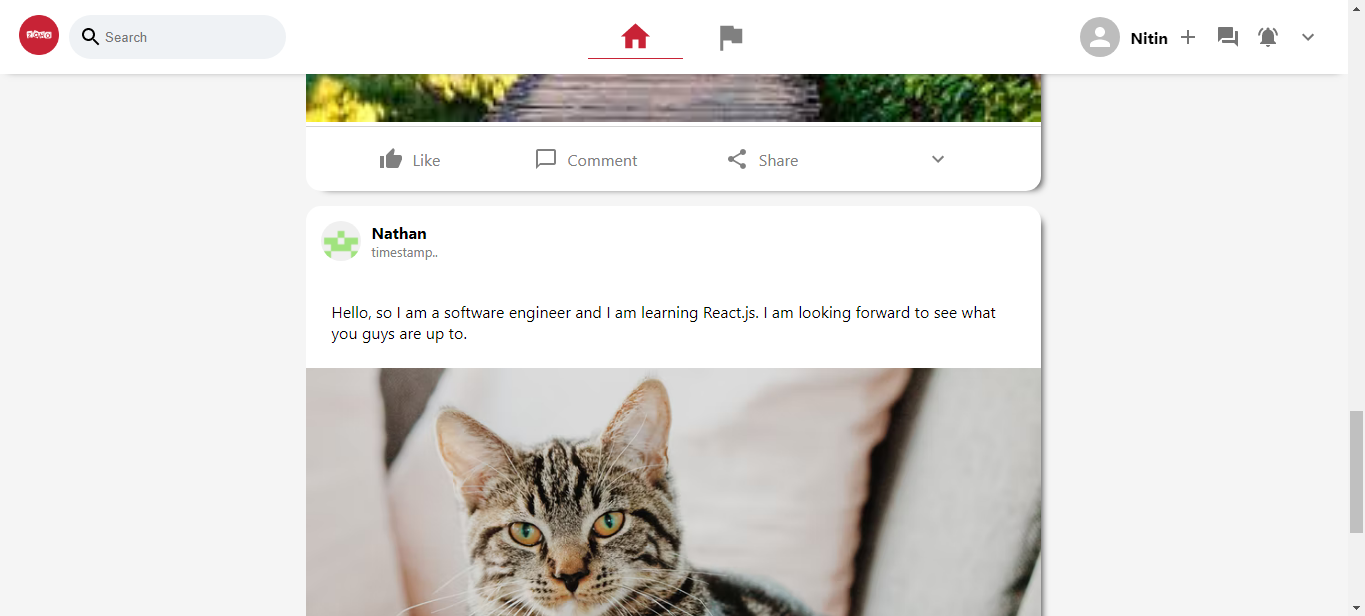
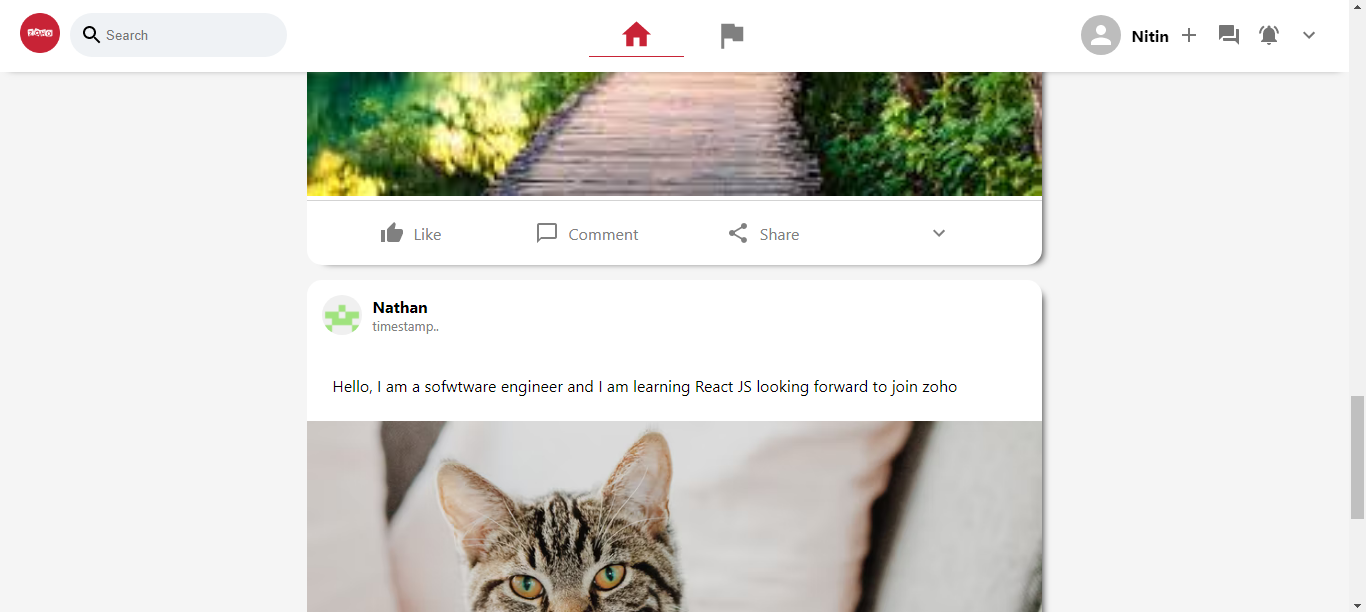
Added files

diff --git a/src/Feed.js b/src/Feed.js
@@ -25,7 +25,7 @@ function Feed() {
         />
         <Post
         profilePic="https://avatars2.githubusercontent.com/u/17098281?s=400&u=f9b8f8c8f8f8f8f8f8f8f8f8f8f8f8f8f8f8f8f8&v=4"
-        message="Hello, so I am a software engineer and I am learning React.js. I am looking forward to see what you guys are up to."
+        message="Hello, I am a sofwtware engineer and I am learning React JS looking forward to join zoho"
         timestamp="Today at 5:00PM"
         username="Nathan"
         image="https://images.unsplash.com/photo-1518791841217-8f162f1e1131?ixlib=rb-1.2.1&ixid=eyJhcHBfaWQiOjEyMDd9&auto=format&fit=crop&w=800&q=60"
